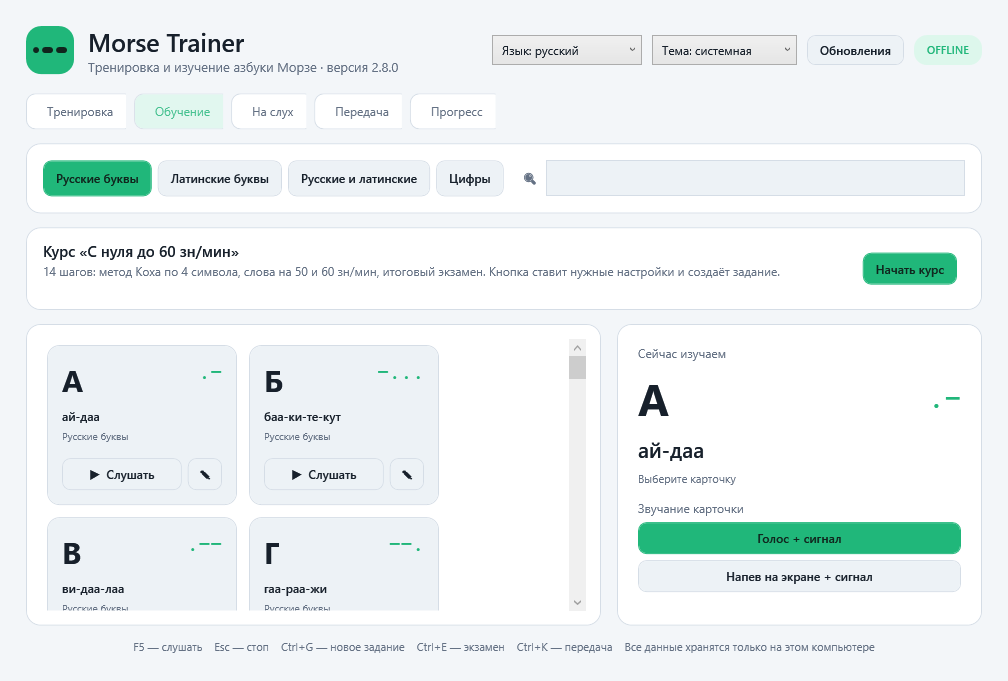
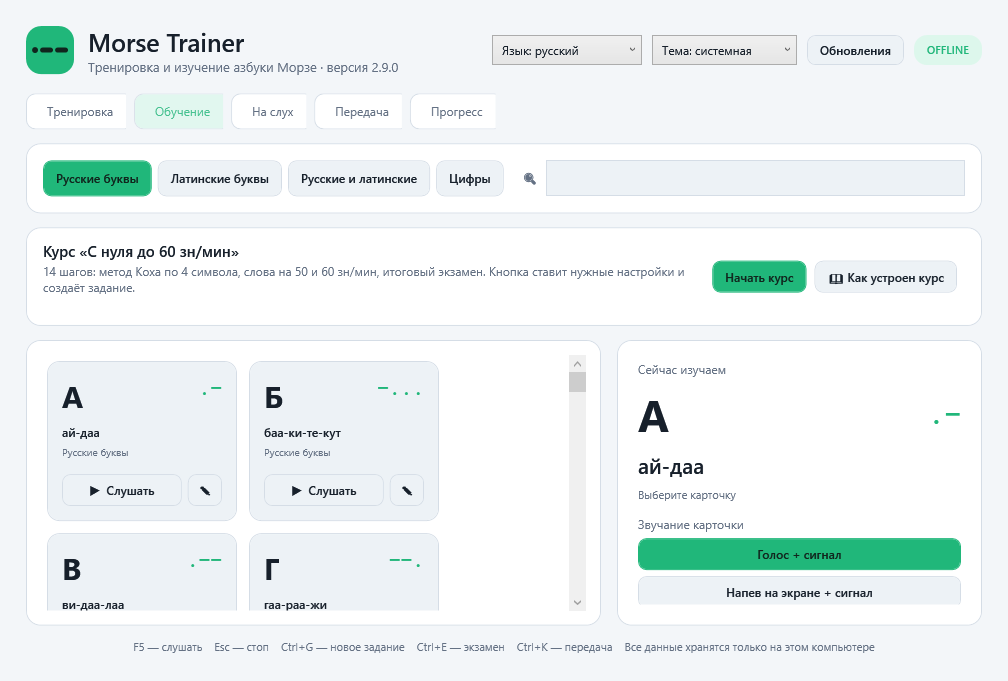
Refresh screenshots for 2.9.0
Снимки Windows — из UI-теста сборки b81e966: версия 2.9.0 в шапке и
новая иконка, «На слух» с похожими вариантами, «Обучение» с кнопкой
«📖 Как устроен курс»; новые снимки — «Группа 3 из 10» с подсветкой
звучащей группы (training-group.png) и страница книжки «Метод Коха»
(course-book.png), обе добавлены в README.
Снимки телефона — русский проход дымового теста на эмуляторе: «На слух»
с похожими вариантами (Б — Ь Ц З) и строкой «Чаще звучат».

diff --git a/README.md b/README.md
@@ -82,6 +82,10 @@
 |---|---|
 | ![Прогресс](docs/screenshots/progress.png) | ![Training, dark](docs/screenshots/training-en.png) |
 
+| Звучит задание: «Группа 3 из 10» | Книжка курса: метод Коха |
+|---|---|
+| ![Группа 3 из 10](docs/screenshots/training-group.png) | ![Книжка курса](docs/screenshots/course-book.png) |
+
 Ещё: [свёрнутая панель параметров с вводом ответа](docs/screenshots/training-compact.png).
 
 Ещё: [обучение на английском в тёмной теме](docs/screenshots/learning-en.png).
